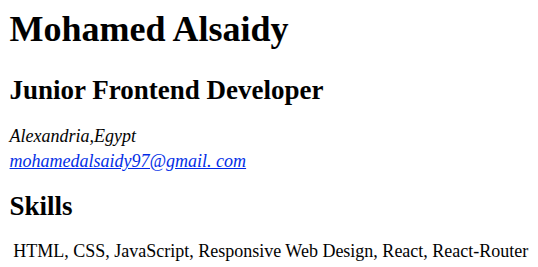
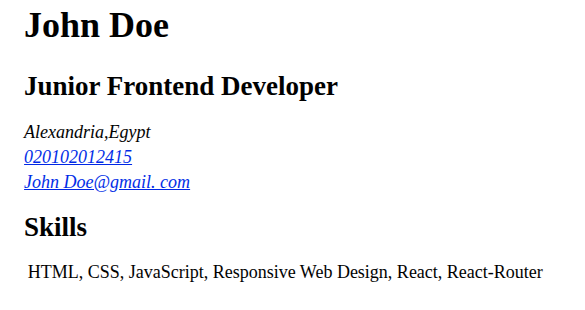
project 2 & 3 update 2

diff --git a/Frontend Projects/02+03- Personal Portfolio/index.html b/Frontend Projects/02+03- Personal Portfolio/index.html
@@ -3,12 +3,17 @@
   <head>
     <meta charset="UTF-8" />
     <meta name="viewport" content="width=device-width, initial-scale=1.0" />
-    <title>Alsaidy's Portfolio</title>
+    <title>John's Portfolio</title>
     <link rel="stylesheet" href="./CSS/home.css" />
   </head>
   <body>
     <header>
-      <h1>Mohamed Alsaidy</h1>
+      <h1 id="name" >
+        <img
+          src="./assets/favicon_io/favicon-32x32.png"
+          alt="john doe image"
+        />John Doe
+      </h1>
       <nav>
         <ul>
           <li><a href="./index.html">Home</a></li>
@@ -18,32 +23,87 @@
         </ul>
       </nav>
     </header>
+    <section id="hero">
+      <h2>Frontend Developer</h2>
+      <p>Crafting beautiful and interactive user experiences with code.</p>
+    </section>
     <main>
-      <section id="hero">
-        <h2>Frontend Developer</h2>
-        <p>Crafting beautiful and interactive user experiences with code</p>
-      </section>
-     <div id="center">
-       <section>
+      <section id="projects">
         <h3>Projects</h3>
-        <nav>
-          <ul></ul>
-        </nav>
+        <ul>
+          <li><a href="">HTML Only Portfolio</a></li>
+          <li><a href="">Calculator</a></li>
+          <li><a href="">Quiz App</a></li>
+          <li><a href="">Countdown Timer</a></li>
+          <li><a href="">Product Upcoming Page</a></li>
+        </ul>
       </section>
-      <section>
-        <div><h3>Work Experience</h3></div>
-        <div><h3>OpenSource Work</h3></div>
+      <section id="experience">
+        <h3>Work Experience</h3>
+        <p>
+          <h4>roadmap.sh</h4>
+          Solved all the frontend projects
+          <a href="">Visit my profile</a>
+        </p>
+         <p>
+          <h4>OpenSource Work</h4>
+          Contributed to 50 opensource projects. Made my own projects with 200 Github Stars.
+          <a href="">Visit my Github profile</a>
+        </p>
       </section>
-      <section>
+      <section id="education">
         <h3>Education</h3>
-      </section>
-      <section>
-     </div>
-        <h3>Reviews from Teachers</h3>
+        <p>
+          Graduated with 3.76 out of4 CGPA. Won Acme Hackathon. Organized 30
+          sessions.
+        </p>
+        <figure>
+          <figcaption>Courses I took:</figcaption>
+          <ul>
+            <li>Object oriented programming</li>
+            <li>Data Structures and Algorithms</li>
+            <li>Web engineering</li>
+            <li>Artificial Intelligence</li>
+            <li>Human Computer Interaction</li>
+            <li>Computer Graphics</li>
+            <li>Database Management Systems</li>
+            <li>Distributed Database Systems</li>
+            <li>Discreet Mathematics</li>
+          </ul>
+        </figure>
       </section>
     </main>
-    <footer>
-      <span>&copy all rights reserved 2025</span>
-    </footer>
+    <section id="reviews">
+      <h3>Reviews from my Teachers</h3>
+      <span>
+        <blockquote>
+          John Doe was a brilliant student: always stood out with his assignments.
+        </blockquote>
+        <p>
+          Max Maxwell
+          Assistant Professor
+        </p>
+      </span>
+      <span>
+        <blockquote>
+          John Doe was a brilliant student: always stood out with his assignments.
+        </blockquote>
+        <p>
+          Max Maxwell
+          Assistant Professor
+        </p>
+      </span>
+      <span>
+        <blockquote>
+          John Doe was a brilliant student: always stood out with his assignments.
+        </blockquote>
+        <p>
+          Max Maxwell
+          Assistant Professor
+        </p>
+      </span>
+
+    </section>
+    <footer>&copy all right reserved 2025</footer>
   </body>
 </html>

diff --git a/Frontend Projects/02+03- Personal Portfolio/CSS/home.css b/Frontend Projects/02+03- Personal Portfolio/CSS/home.css
@@ -8,29 +8,102 @@ html {
 }
 
 body {
+  background-color: #eeeeee;
+  width: 100%;
   margin: 0;
-  padding: 0.5em;
-  display: flex;
-  flex-direction: column;
+  line-height: 1.4;
+  font-size: 18px;
+  border: 1px solid black;
+  max-width: 992px;
+  justify-self: center;
+  padding: 0 1em;
 }
 
 header {
-  width: 100%;
   display: flex;
-  justify-content: space-between;
+  align-items: center;
 }
-nav ul {
+
+#name {
+  display: flex;
+  align-items: center;
+  justify-content: center;
+  gap: 0.5em;
+}
+
+header nav ul {
   list-style: none;
   display: flex;
-  justify-content: space-between;
   gap: 1em;
+  margin: 0;
+  padding: 0;
+}
+
+#hero {
+  display: flex;
+  flex-direction: column;
+  align-items: center;
+  justify-content: center;
+  text-align: center;
+}
+#hero h2 {
+  margin: 2em 0;
+  font-size: 50px;
 }
 
 main {
   display: flex;
-  flex-direction: column;
+  margin: 2em 0;
+}
+main section {
+  border: 1px solid black;
 }
 
-#center {
-  display: flex;
+@media only screen and (max-width: 466px) {
+  #hero h2 {
+    font-size: 30px;
+  }
+}
+
+/* Small devices (portrait tablets and large phones, 600px and up) */
+/* Extra small devices (phones, 600px and down) */
+@media only screen and (max-width: 600px) {
+  header {
+    flex-wrap: wrap;
+  }
+  header h1:first-child {
+    width: 100%;
+  }
+  header nav:not(:first-child) {
+    flex: 1;
+  }
+  header nav ul {
+    justify-content: center;
+  }
+}
+
+/* Small devices (portrait tablets and large phones, 600px and up) */
+@media only screen and (min-width: 600px) {
+  header {
+    justify-content: space-between;
+  }
+}
+
+/* Medium devices (landscape tablets, 768px and up) */
+@media only screen and (min-width: 768px) {
+}
+
+/* Large devices (laptops/desktops, 992px and up) */
+@media only screen and (min-width: 992px) {
+  body {
+    margin: 1em 0;
+  }
+  header {
+    justify-self: center;
+    width: 100%;
+  }
+}
+
+/* Extra large devices (large laptops and desktops, 1200px and up) */
+@media only screen and (min-width: 1200px) {
 }

diff --git a/Frontend Projects/01- Single-Page CV/index.html b/Frontend Projects/01- Single-Page CV/index.html
@@ -2,11 +2,11 @@
 <html lang="en">
   <head>
     <meta charset="UTF-8" />
-    <title>Mohamed Alsaidy's CV</title>
+    <title>John Doe's CV</title>
     <meta name="viewport" content="width=device-width, initial-scale=1.0" />
-    <meta name="description" content="Mohamed Alsaidy's single page CV" />
+    <meta name="description" content="John Doe's single page CV" />
     <!-- social media tags -->
-    <meta property="og:title" content="Mohamed Alsaidy's CV" />
+    <meta property="og:title" content="John Doe's CV" />
     <meta property="og:description" content="Junior Frontend Developer" />
     <meta property="og:image" content="./assets/og.png" />
     <meta property="og:image:alt" content="Picture containing the cv header" />
@@ -34,12 +34,12 @@
   </head>
   <body>
     <header>
-      <h1>Mohamed Alsaidy</h1>
+      <h1>John Doe</h1>
       <h2>Junior Frontend Developer</h2>
       <address>
         Alexandria,Egypt<br />
-        <a href="mailto:mohamedalsaidy97@gmail.com"
-          >mohamedalsaidy97@gmail. com</a
+        <a href="tel:+020102012415">020102012415</a><br />
+        <a href="mailto:mohamedalsaidy97@gmail.com">John Doe@gmail. com</a
         ><br />
       </address>
     </header>
